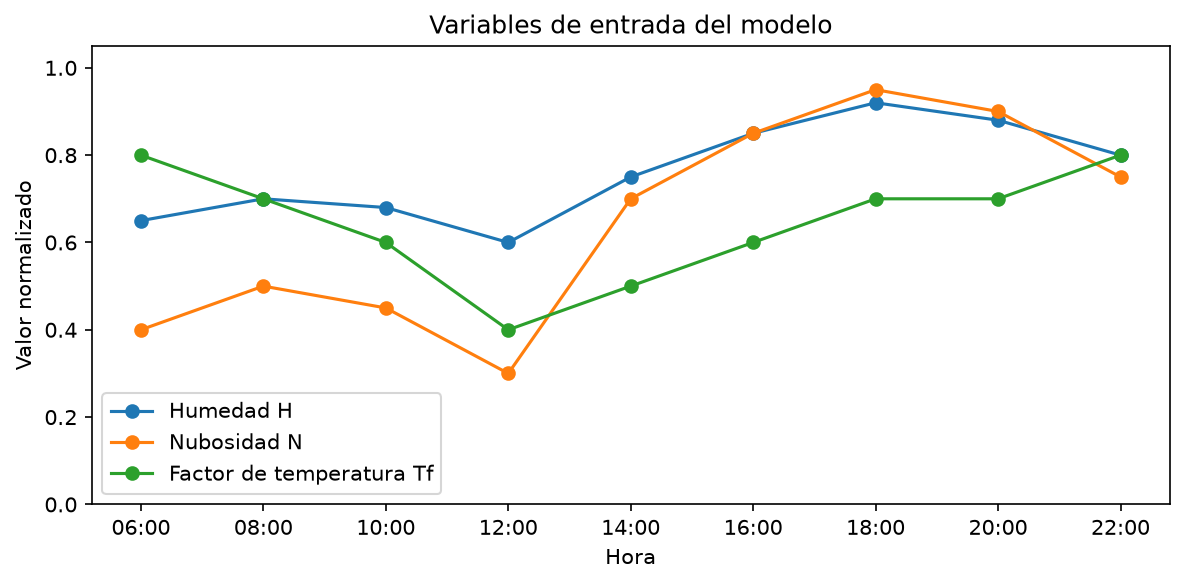
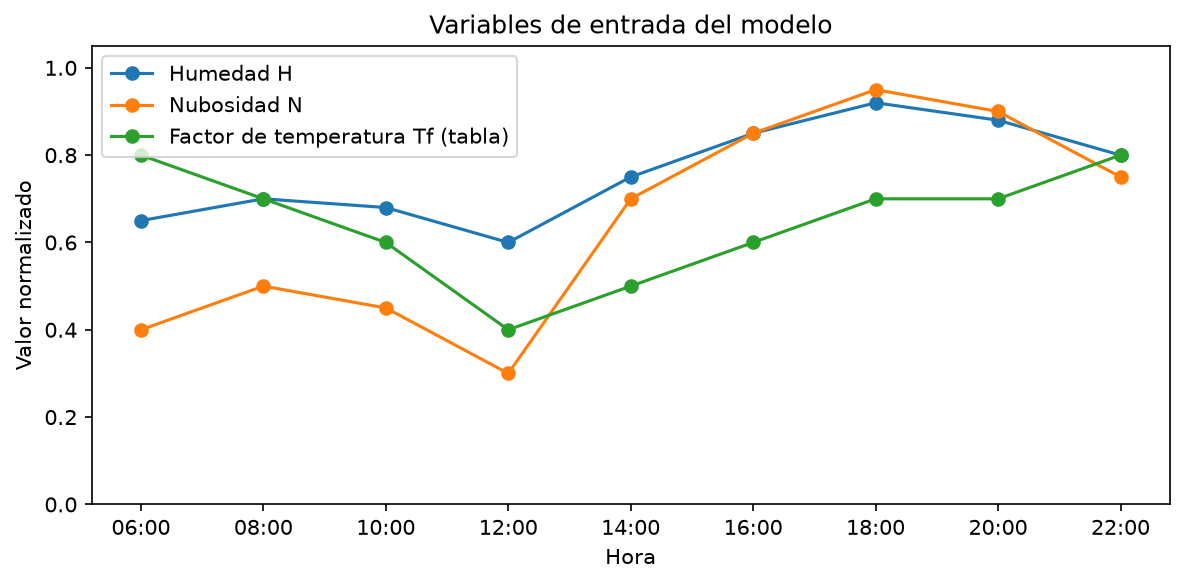
feat(unidad-1): plot contributions and index separately for original and adjusted models

Changed region(s): [[0.0938, 0.0925, 0.4375, 0.2774], [0.0938, 0.6473, 0.375, 0.7705], [0.0938, 0.7705, 0.375, 0.863]]

diff --git a/unidad-1/ape-1-indice-lluvia/codigo/simulacion_ape/view/chart_view.py b/unidad-1/ape-1-indice-lluvia/codigo/simulacion_ape/view/chart_view.py
@@ -5,7 +5,7 @@ import matplotlib
 matplotlib.use("Agg")
 import matplotlib.pyplot as plt
 
-from ..model.config import CLOUDINESS, HOURS, HUMIDITY, STATES, TEMPERATURE, WEIGHTS
+from ..model.config import HOURS, STATES
 
 
 def _threshold_lines(ax):
@@ -14,40 +14,47 @@ def _threshold_lines(ax):
         ax.text(1.01, bound, state, transform=ax.get_yaxis_transform(), va="center", fontsize=8, color="gray")
 
 
-def plot_inputs(result, path):
-    fig, ax = plt.subplots(figsize=(8, 4))
-    for key, label in (("H", "Humedad H"), ("N", "Nubosidad N"), ("Tf", "Factor de temperatura Tf")):
-        ax.plot(HOURS, result[key], marker="o", label=label)
-    ax.set(xlabel="Hora", ylabel="Valor normalizado", title="Variables de entrada del modelo", ylim=(0, 1.05))
-    ax.legend()
-    fig.tight_layout()
-    fig.savefig(path, dpi=150, bbox_inches="tight")
-    plt.close(fig)
-
-
-def plot_contributions(result, path):
-    """Términos ponderados apilados: muestra cuánto aporta cada variable al índice."""
-    fig, ax = plt.subplots(figsize=(8, 4))
-    bottom = 0
-    for weight, key, label in zip(WEIGHTS, ("H", "N", "Tf"), ("0.5·H", "0.3·N", "0.2·Tf")):
-        term = weight * result[key]
-        ax.bar(HOURS, term, bottom=bottom, label=label)
-        bottom = bottom + term
-    _threshold_lines(ax)
-    ax.set(xlabel="Hora", ylabel="Índice I", title="Aporte de cada variable al índice (modelo base)", ylim=(0, 1))
+def _save(fig, ax, path):
     ax.legend(loc="upper left")
     fig.tight_layout()
     fig.savefig(path, dpi=150, bbox_inches="tight")
     plt.close(fig)
+
+
+def plot_inputs(result, path):
+    fig, ax = plt.subplots(figsize=(8, 4))
+    for key, label in (("H", "Humedad H"), ("N", "Nubosidad N"), ("Tf", "Factor de temperatura Tf (tabla)")):
+        ax.plot(HOURS, result[key], marker="o", label=label)
+    ax.set(xlabel="Hora", ylabel="Valor normalizado", title="Variables de entrada del modelo", ylim=(0, 1.05))
+    _save(fig, ax, path)
+
+
+def plot_contributions(result, weights, title, path):
+    """Términos ponderados apilados: muestra cuánto aporta cada variable al índice."""
+    fig, ax = plt.subplots(figsize=(8, 4))
+    bottom = 0
+    for weight, key in zip(weights, ("H", "N", "Tf")):
+        term = weight * result[key]
+        ax.bar(HOURS, term, bottom=bottom, label=f"{weight}·{key}")
+        bottom = bottom + term
+    _threshold_lines(ax)
+    ax.set(xlabel="Hora", ylabel="Índice I", title=title, ylim=(0, 1))
+    _save(fig, ax, path)
+
+
+def plot_index(result, title, path):
+    """Índice de un solo modelo a lo largo del día, con los umbrales de estado."""
+    fig, ax = plt.subplots(figsize=(8, 4))
+    ax.plot(HOURS, result["index"], marker="o", label="Índice I")
+    _threshold_lines(ax)
+    ax.set(xlabel="Hora", ylabel="Índice I", title=title, ylim=(0.3, 1))
+    _save(fig, ax, path)
 
 
 def plot_comparison(base, adjusted, path):
     fig, ax = plt.subplots(figsize=(8, 4))
-    ax.plot(HOURS, base["index"], marker="o", label="Modelo base (tabla)")
-    ax.plot(HOURS, adjusted["index"], marker="s", linestyle="--", label="Modelo ajustado (0.4·H + 0.4·N + 0.2·Tf)")
+    ax.plot(HOURS, base["index"], marker="o", label="Índice original (0.5·H + 0.3·N + 0.2·Tf)")
+    ax.plot(HOURS, adjusted["index"], marker="s", linestyle="--", label="Índice ajustado (0.4·H + 0.4·N + 0.2·Tf)")
     _threshold_lines(ax)
-    ax.set(xlabel="Hora", ylabel="Índice I", title="Índice de lluvia durante el día", ylim=(0.3, 1))
-    ax.legend(loc="upper left")
-    fig.tight_layout()
-    fig.savefig(path, dpi=150, bbox_inches="tight")
-    plt.close(fig)
+    ax.set(xlabel="Hora", ylabel="Índice I", title="Comparación del índice original y ajustado", ylim=(0.3, 1))
+    _save(fig, ax, path)

diff --git a/unidad-1/ape-1-indice-lluvia/codigo/simulacion_ape/controller/simulation_controller.py b/unidad-1/ape-1-indice-lluvia/codigo/simulacion_ape/controller/simulation_controller.py
@@ -1,7 +1,7 @@
 """Controlador: ejecuta ambos modelos y pide a las vistas mostrar y guardar los resultados."""
 
 from ..model.analysis import compare, rainy_hours
-from ..model.config import ADJUSTED_WEIGHTS, FIGURES_DIR
+from ..model.config import ADJUSTED_WEIGHTS, FIGURES_DIR, WEIGHTS
 from ..model.rain_model import tf_continuous, tf_table
 from ..model.simulation import run
 from ..view import chart_view, console_view
@@ -14,6 +14,10 @@ def main():
 
     FIGURES_DIR.mkdir(exist_ok=True)
     chart_view.plot_inputs(base, FIGURES_DIR / "entradas.png")
-    chart_view.plot_contributions(base, FIGURES_DIR / "contribuciones.png")
+    for name, result, weights in (("original", base, WEIGHTS), ("ajustado", adjusted, ADJUSTED_WEIGHTS)):
+        chart_view.plot_contributions(
+            result, weights, f"Aporte de cada variable al índice {name}", FIGURES_DIR / f"contribuciones_{name}.png"
+        )
+        chart_view.plot_index(result, f"Índice {name} durante el día", FIGURES_DIR / f"indice_{name}.png")
     chart_view.plot_comparison(base, adjusted, FIGURES_DIR / "comparacion.png")
     console_view.show_figures_saved(FIGURES_DIR)
